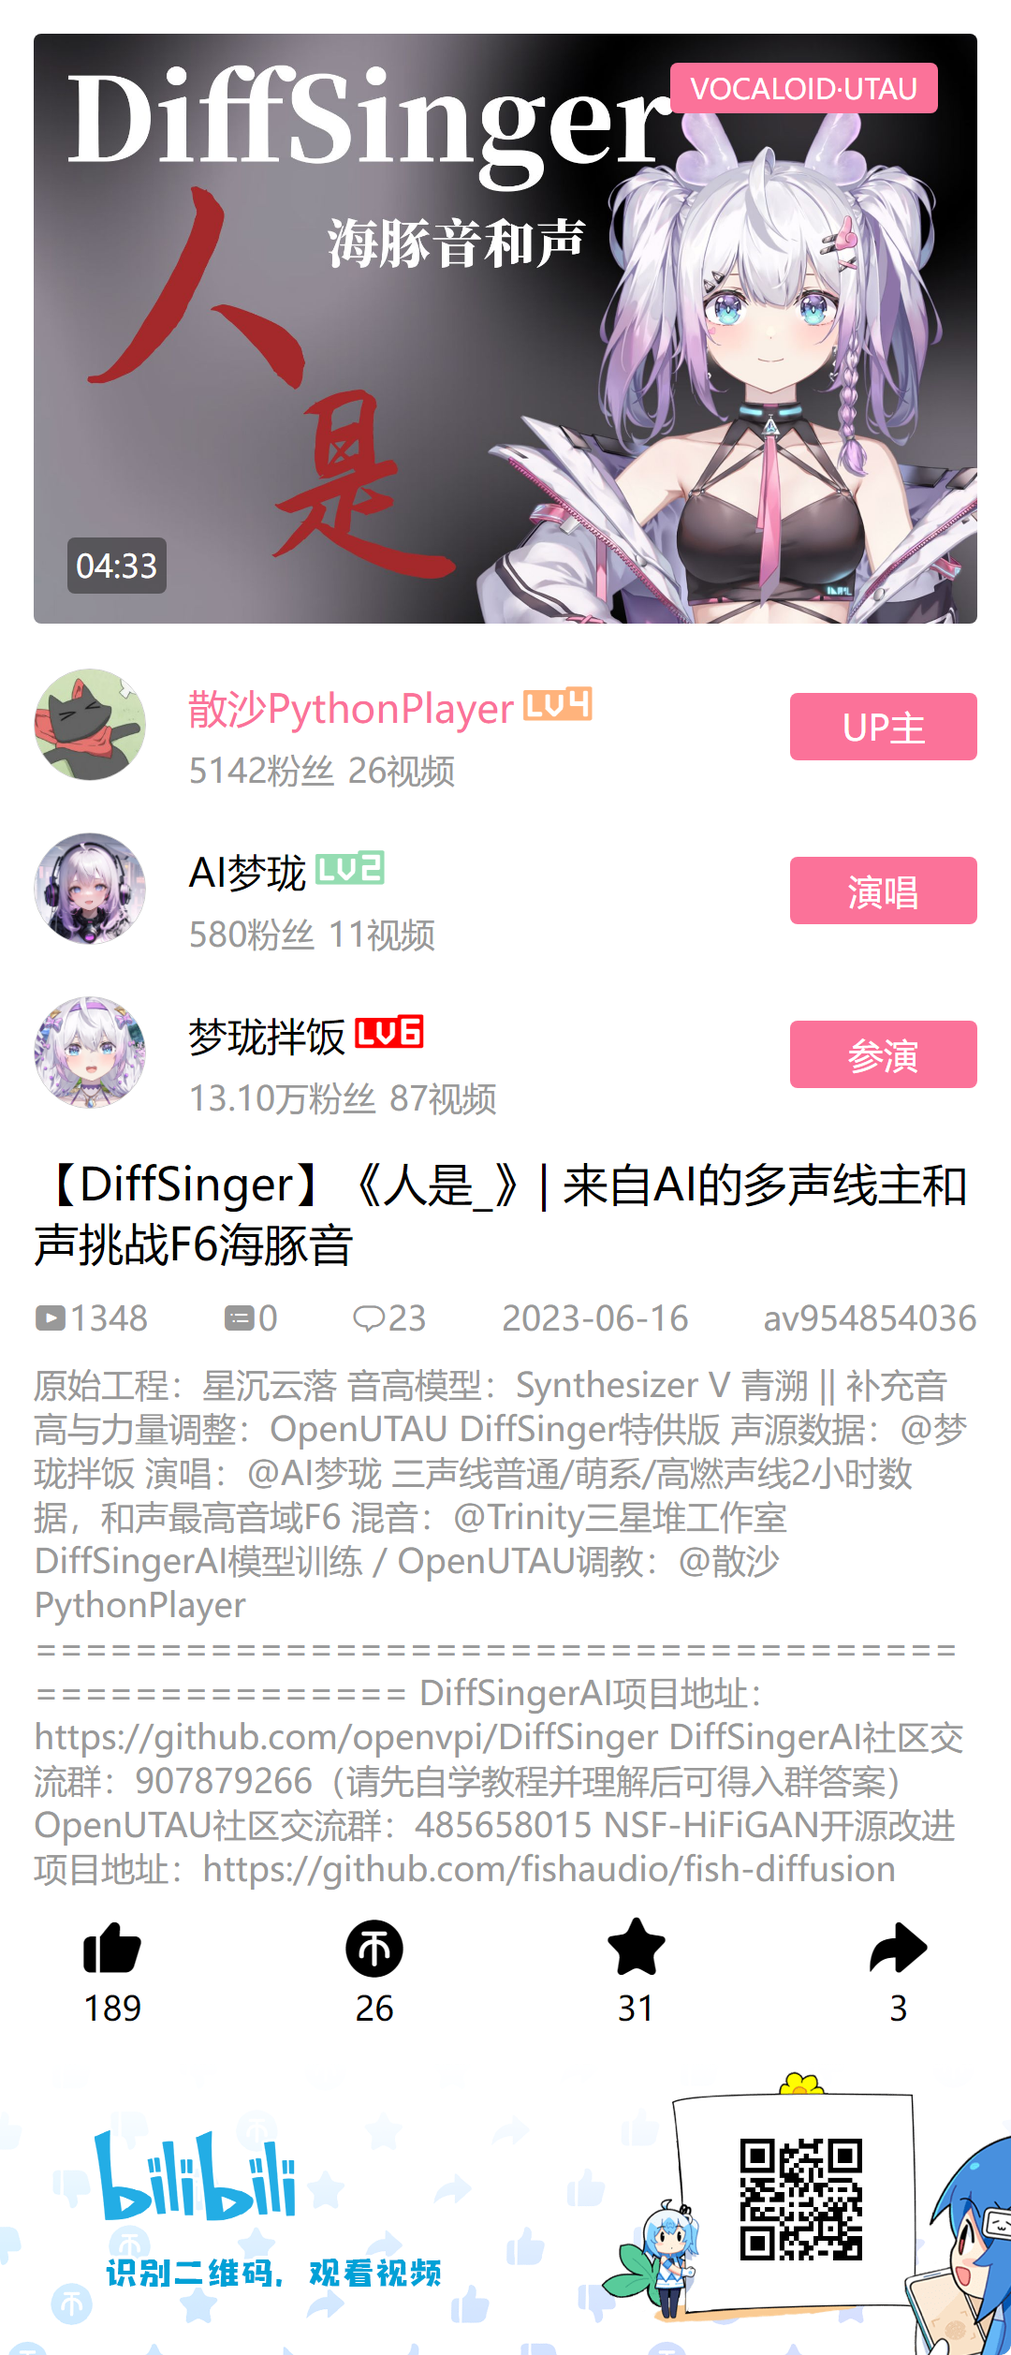
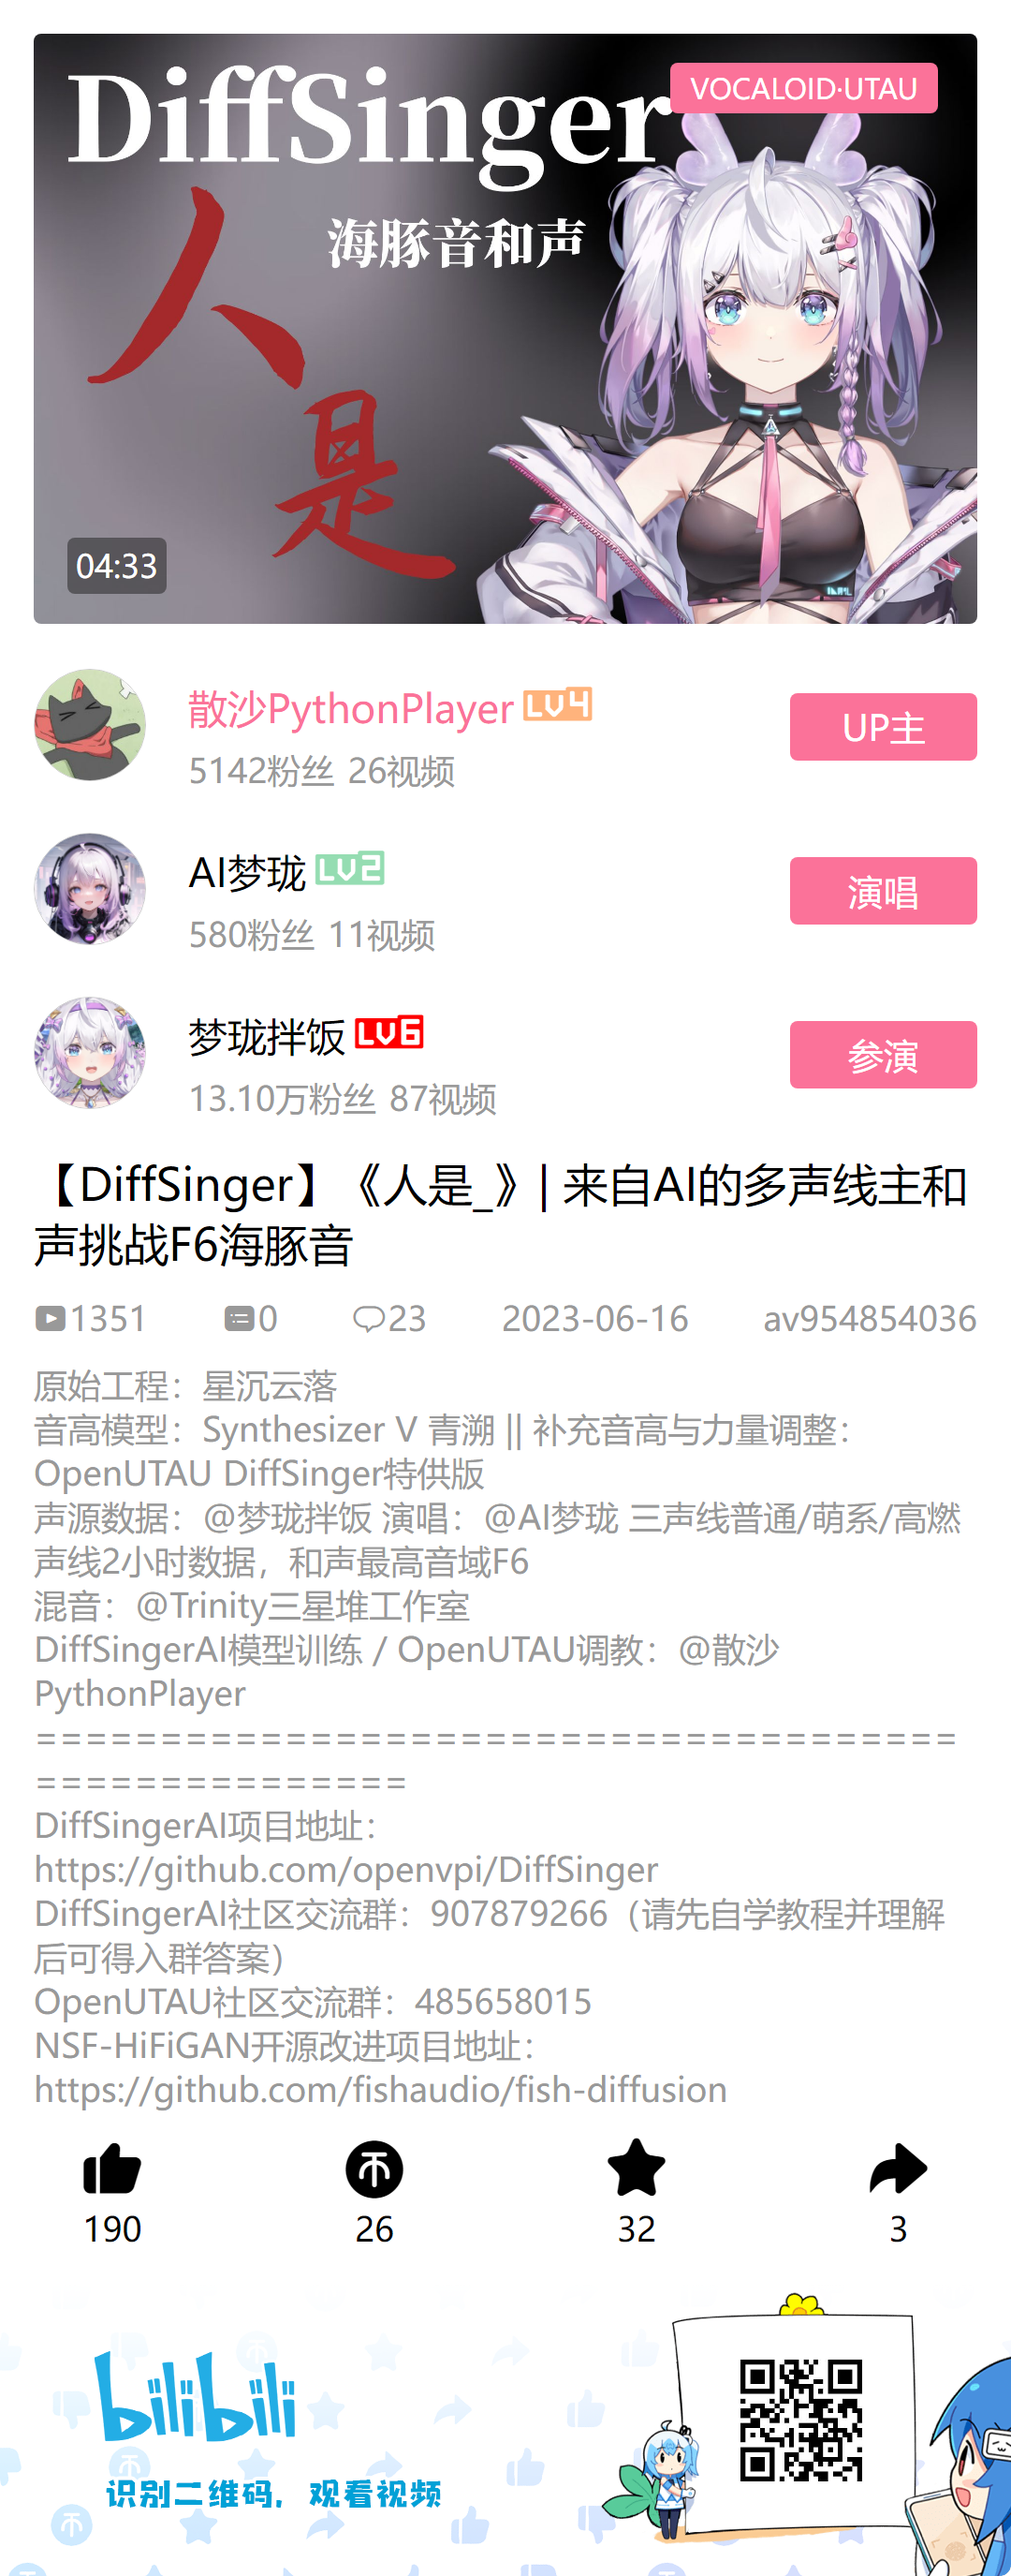
修复换行问题 (#53)

diff --git a/nonebot_plugin_bilichat/lib/draw_bili_image.py b/nonebot_plugin_bilichat/lib/draw_bili_image.py
@@ -382,7 +382,7 @@ class BiliVideoImage:
                 "reply_count": self.reply,
                 "upload_date": self.pubdate.strftime("%Y-%m-%d"),
                 "av_number": self.aid,
-                "video_summary": self.desc,
+                "video_summary": self.desc.replace("\n","<br>"),
                 "like_count": self.like,
                 "coin_count": self.coin,
                 "fav_count": self.favorite,
